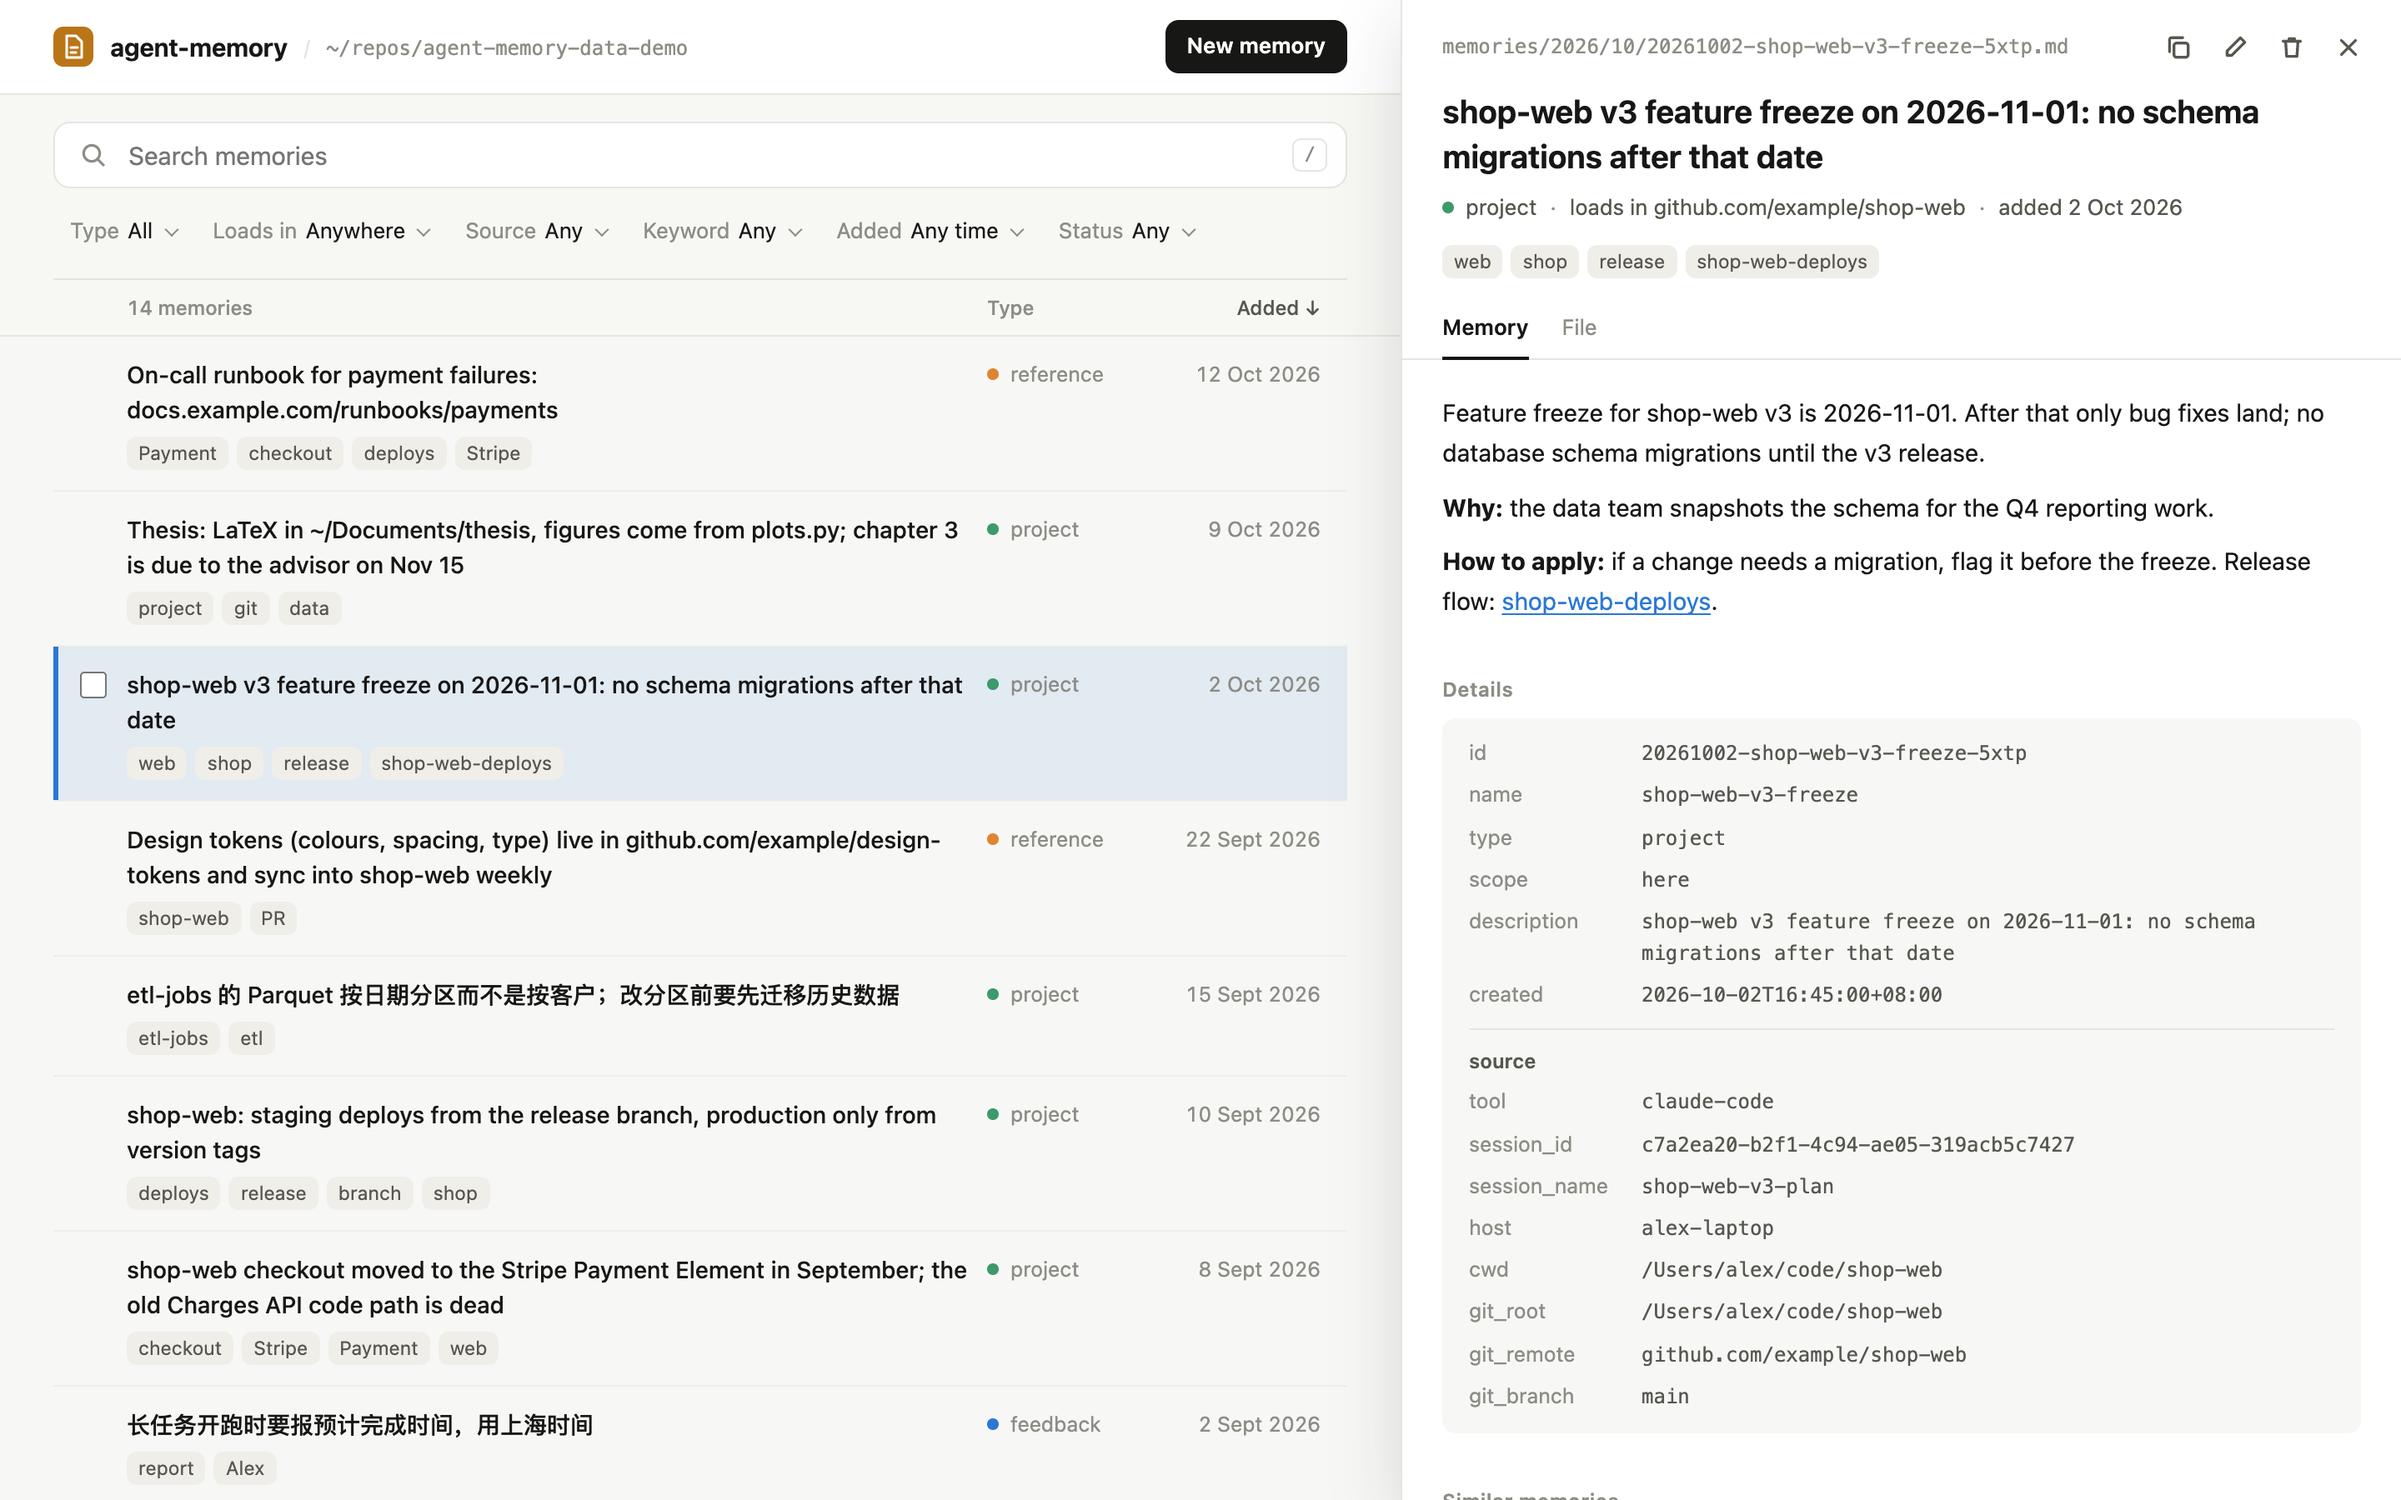
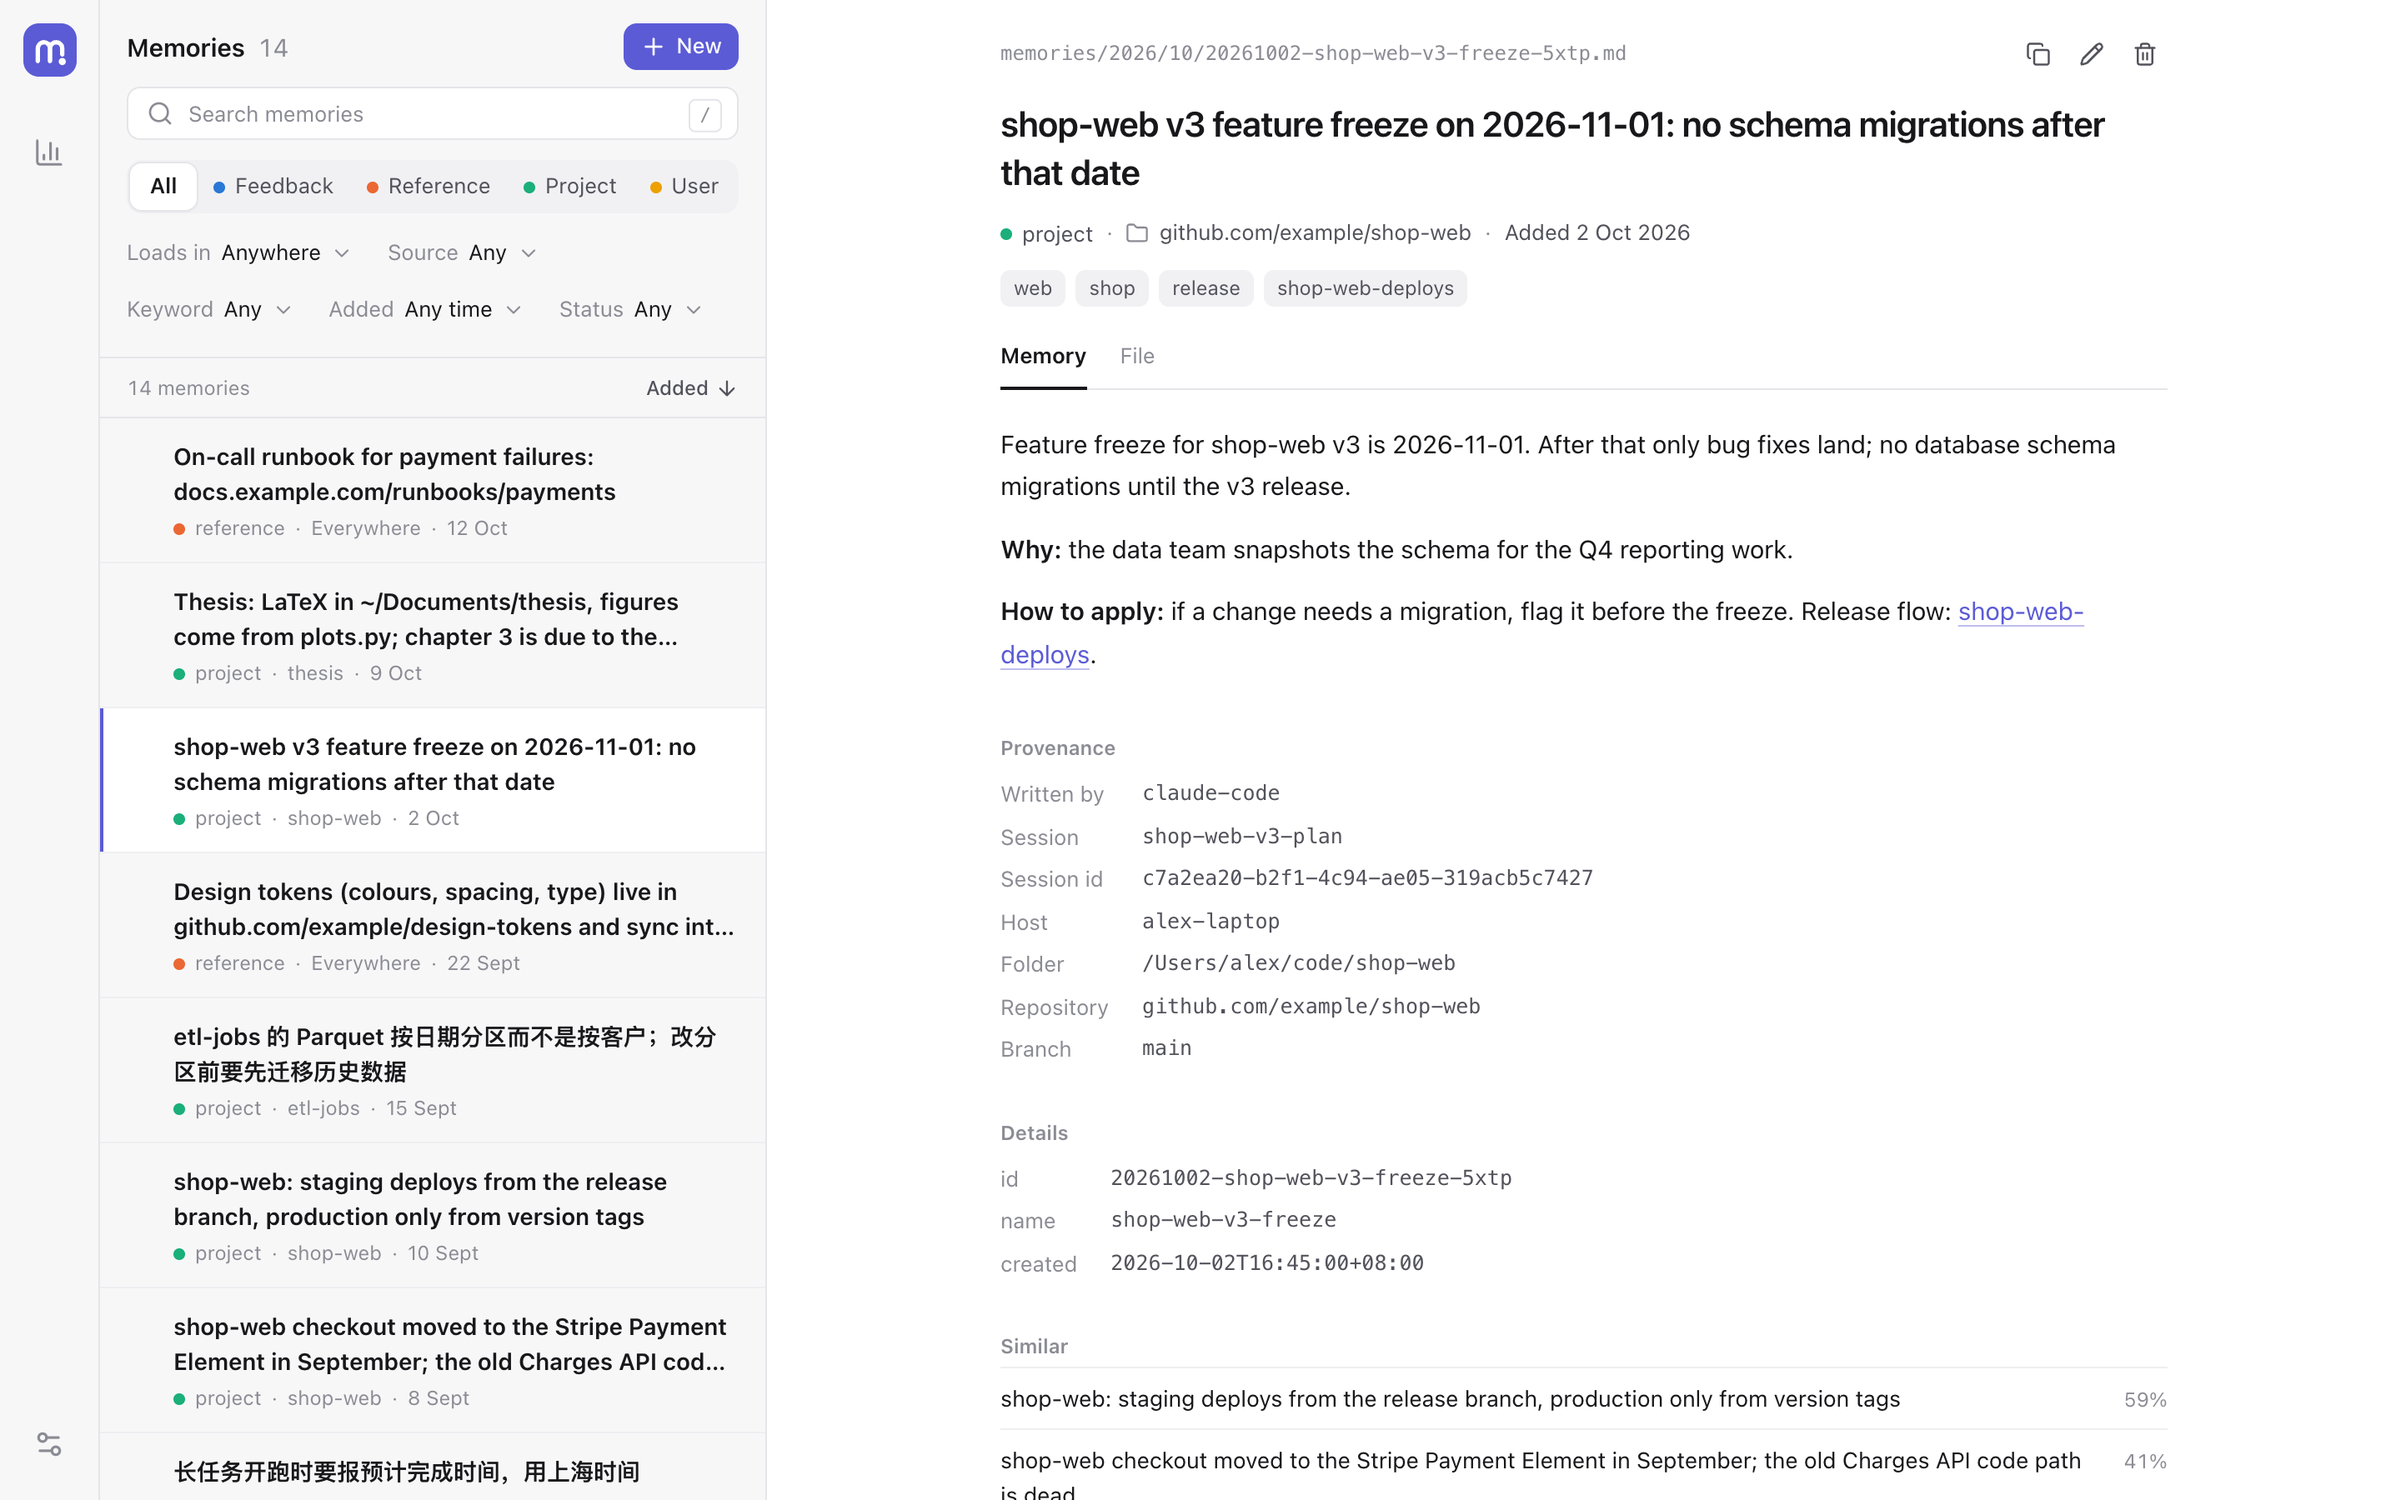
Describe the new mem ui in the README
The page section now covers Insights and Settings and the resizable
list, the development notes point at webui/, and the screenshot shows
the new page on the same demo data.

diff --git a/README.md b/README.md
@@ -105,22 +105,30 @@ mem doctor                      check the installation
 
 ## Managing memories in a page
 
-`mem ui` starts a small server on `127.0.0.1` and opens a page listing every memory. Keep the
-terminal open while you use it. It needs `numpy`; the hooks do not.
+`mem ui` starts a small server on `127.0.0.1` and opens a page with three parts: Memories, Insights
+and Settings (the logo always leads back to Memories). Keep the terminal open while you use it. It
+needs `numpy`; the hooks do not.
 
 - **Find.** One search box (press `/`). Word matches appear as you type, with the matching words
   marked; a moment later the local model adds memories close in meaning, across Chinese and
   English. Filters narrow the list by type, where a memory loads (everywhere, or one project or
   folder), which tool wrote it, keyword, when it was added (a recent period or a date range), and
   status (needs tidying, as `mem lint` reports and the open memory lists, or unchanged for 60
-  days). Tick several values in one filter to see memories that match any of them. The date
-  column's header sets the order: newest, oldest, recently changed or A to Z.
-- **Read.** Click a row, or move with `j`/`k` and press Enter. The memory opens on the right with
-  the body rendered as Markdown with `[[links]]` that open other memories, every frontmatter field
-  (including each `source` entry), the most similar memories, and the file exactly as stored.
+  days). Tick several values in one filter to see memories that match any of them. The list's
+  header sets the order: newest, oldest, recently changed or A to Z.
+- **Read.** Click a memory, or move with `j`/`k`. It opens beside the list (drag the line between
+  them to resize) with the body rendered as Markdown, `[[links]]` that open other memories, where
+  it came from, every other frontmatter field, the most similar memories, and the file exactly as
+  stored. On a narrow window the list and the memory take turns.
 - **Change.** Edit (`e`) or delete from the open memory, add one with New (`n`), or tick several
-  rows (`x`) and delete them together. Every change is one git commit, pushed in the background,
-  with Undo. If an agent edits the same file meanwhile, saving is refused rather than overwriting.
+  memories (`x`) and delete them together. Every change is one git commit, pushed in the
+  background, with Undo. If an agent edits the same file meanwhile, saving is refused rather than
+  overwriting.
+- **Insights.** How many memories there are and how they change week by week, where they load and
+  which tool wrote them, pairs that read alike (compare them side by side and keep one), and the
+  index a session would get at a chosen place, against the 10,000-character hook limit.
+- **Settings.** Light or dark, the data repository and a sync on demand, words never to use as
+  keywords, the embedding model, and the same checks as `mem doctor`.
 
 Similar memories and search by meaning use Qwen3-Embedding-0.6B, int8 ONNX, on the CPU, in a
 separate `uv run --with onnxruntime --with tokenizers` environment; vectors are cached by content
@@ -129,7 +137,7 @@ pinned revision, checked by SHA-256). Without it, or with `--keywords-only`, sim
 come from keyword vectors and search matches words only.
 
 Keywords are the words that most set a memory apart from the others (TF-IDF). Words that should
-never be keywords, such as your own name, go in `keyword_stopwords` in
+never be keywords, such as your own name, go in Settings, which keeps them as `keyword_stopwords` in
 `~/.config/agent-memory/config.json`.
 
 The server only listens on loopback, and every request needs the one-time token from the link it
@@ -144,10 +152,9 @@ uv run ruff check .
 uv run ruff format .
 ```
 
-The new page for `mem ui` lives in `web/` (Svelte 5, TypeScript, Vite, Tailwind and bits-ui) and
-needs Node 20 or newer. `npm run build` there writes it into `src/agent_memory/webui_next/`, which
-`mem ui` serves at `/next/` and the package ships; CI builds it before packaging, so the built files
-are not committed. While working on it, `npm run dev` serves the page with hot reload and passes API
+The page `mem ui` serves lives in `web/` (Svelte 5, TypeScript, Vite, Tailwind and bits-ui) and
+needs Node 20 or newer. `npm run build` there writes it into `src/agent_memory/webui/`, which the
+package ships; CI builds it before packaging, so the built files are not committed. While working on it, `npm run dev` serves the page with hot reload and passes API
 calls to a running `mem ui` (set `MEM_UI` if it is not on port 8790); open it with the `#t=…` part of
 the link `mem ui` printed.
 
